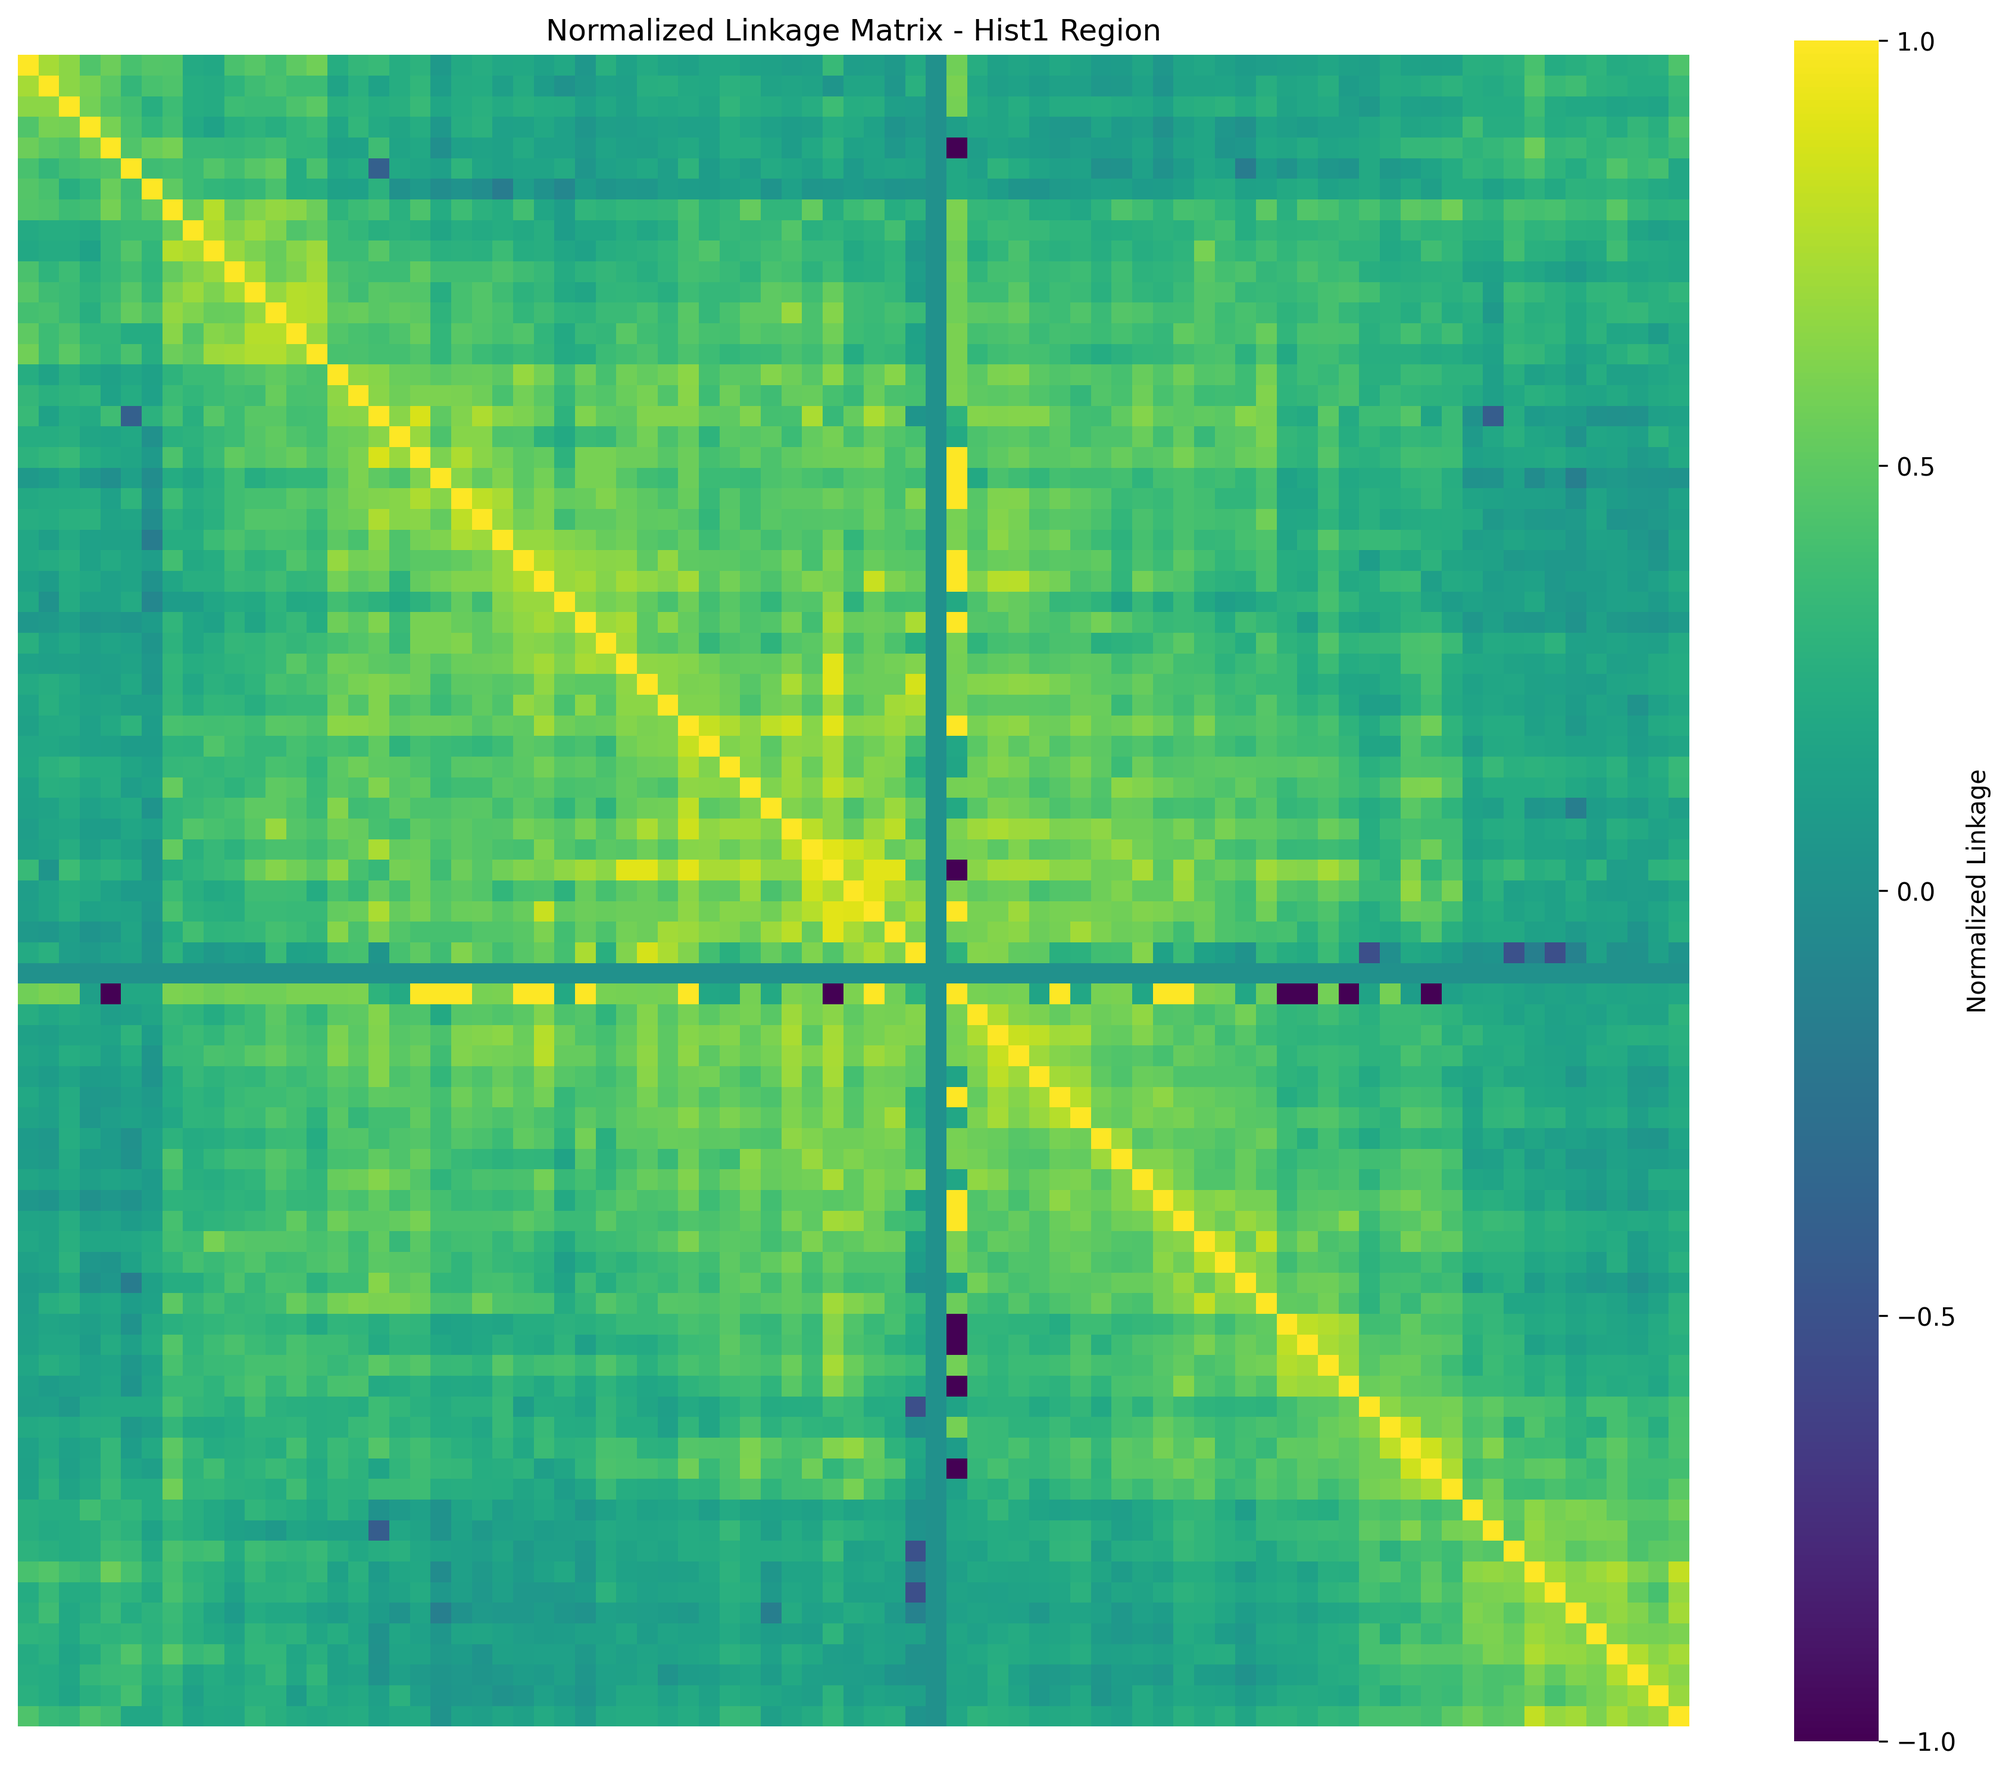
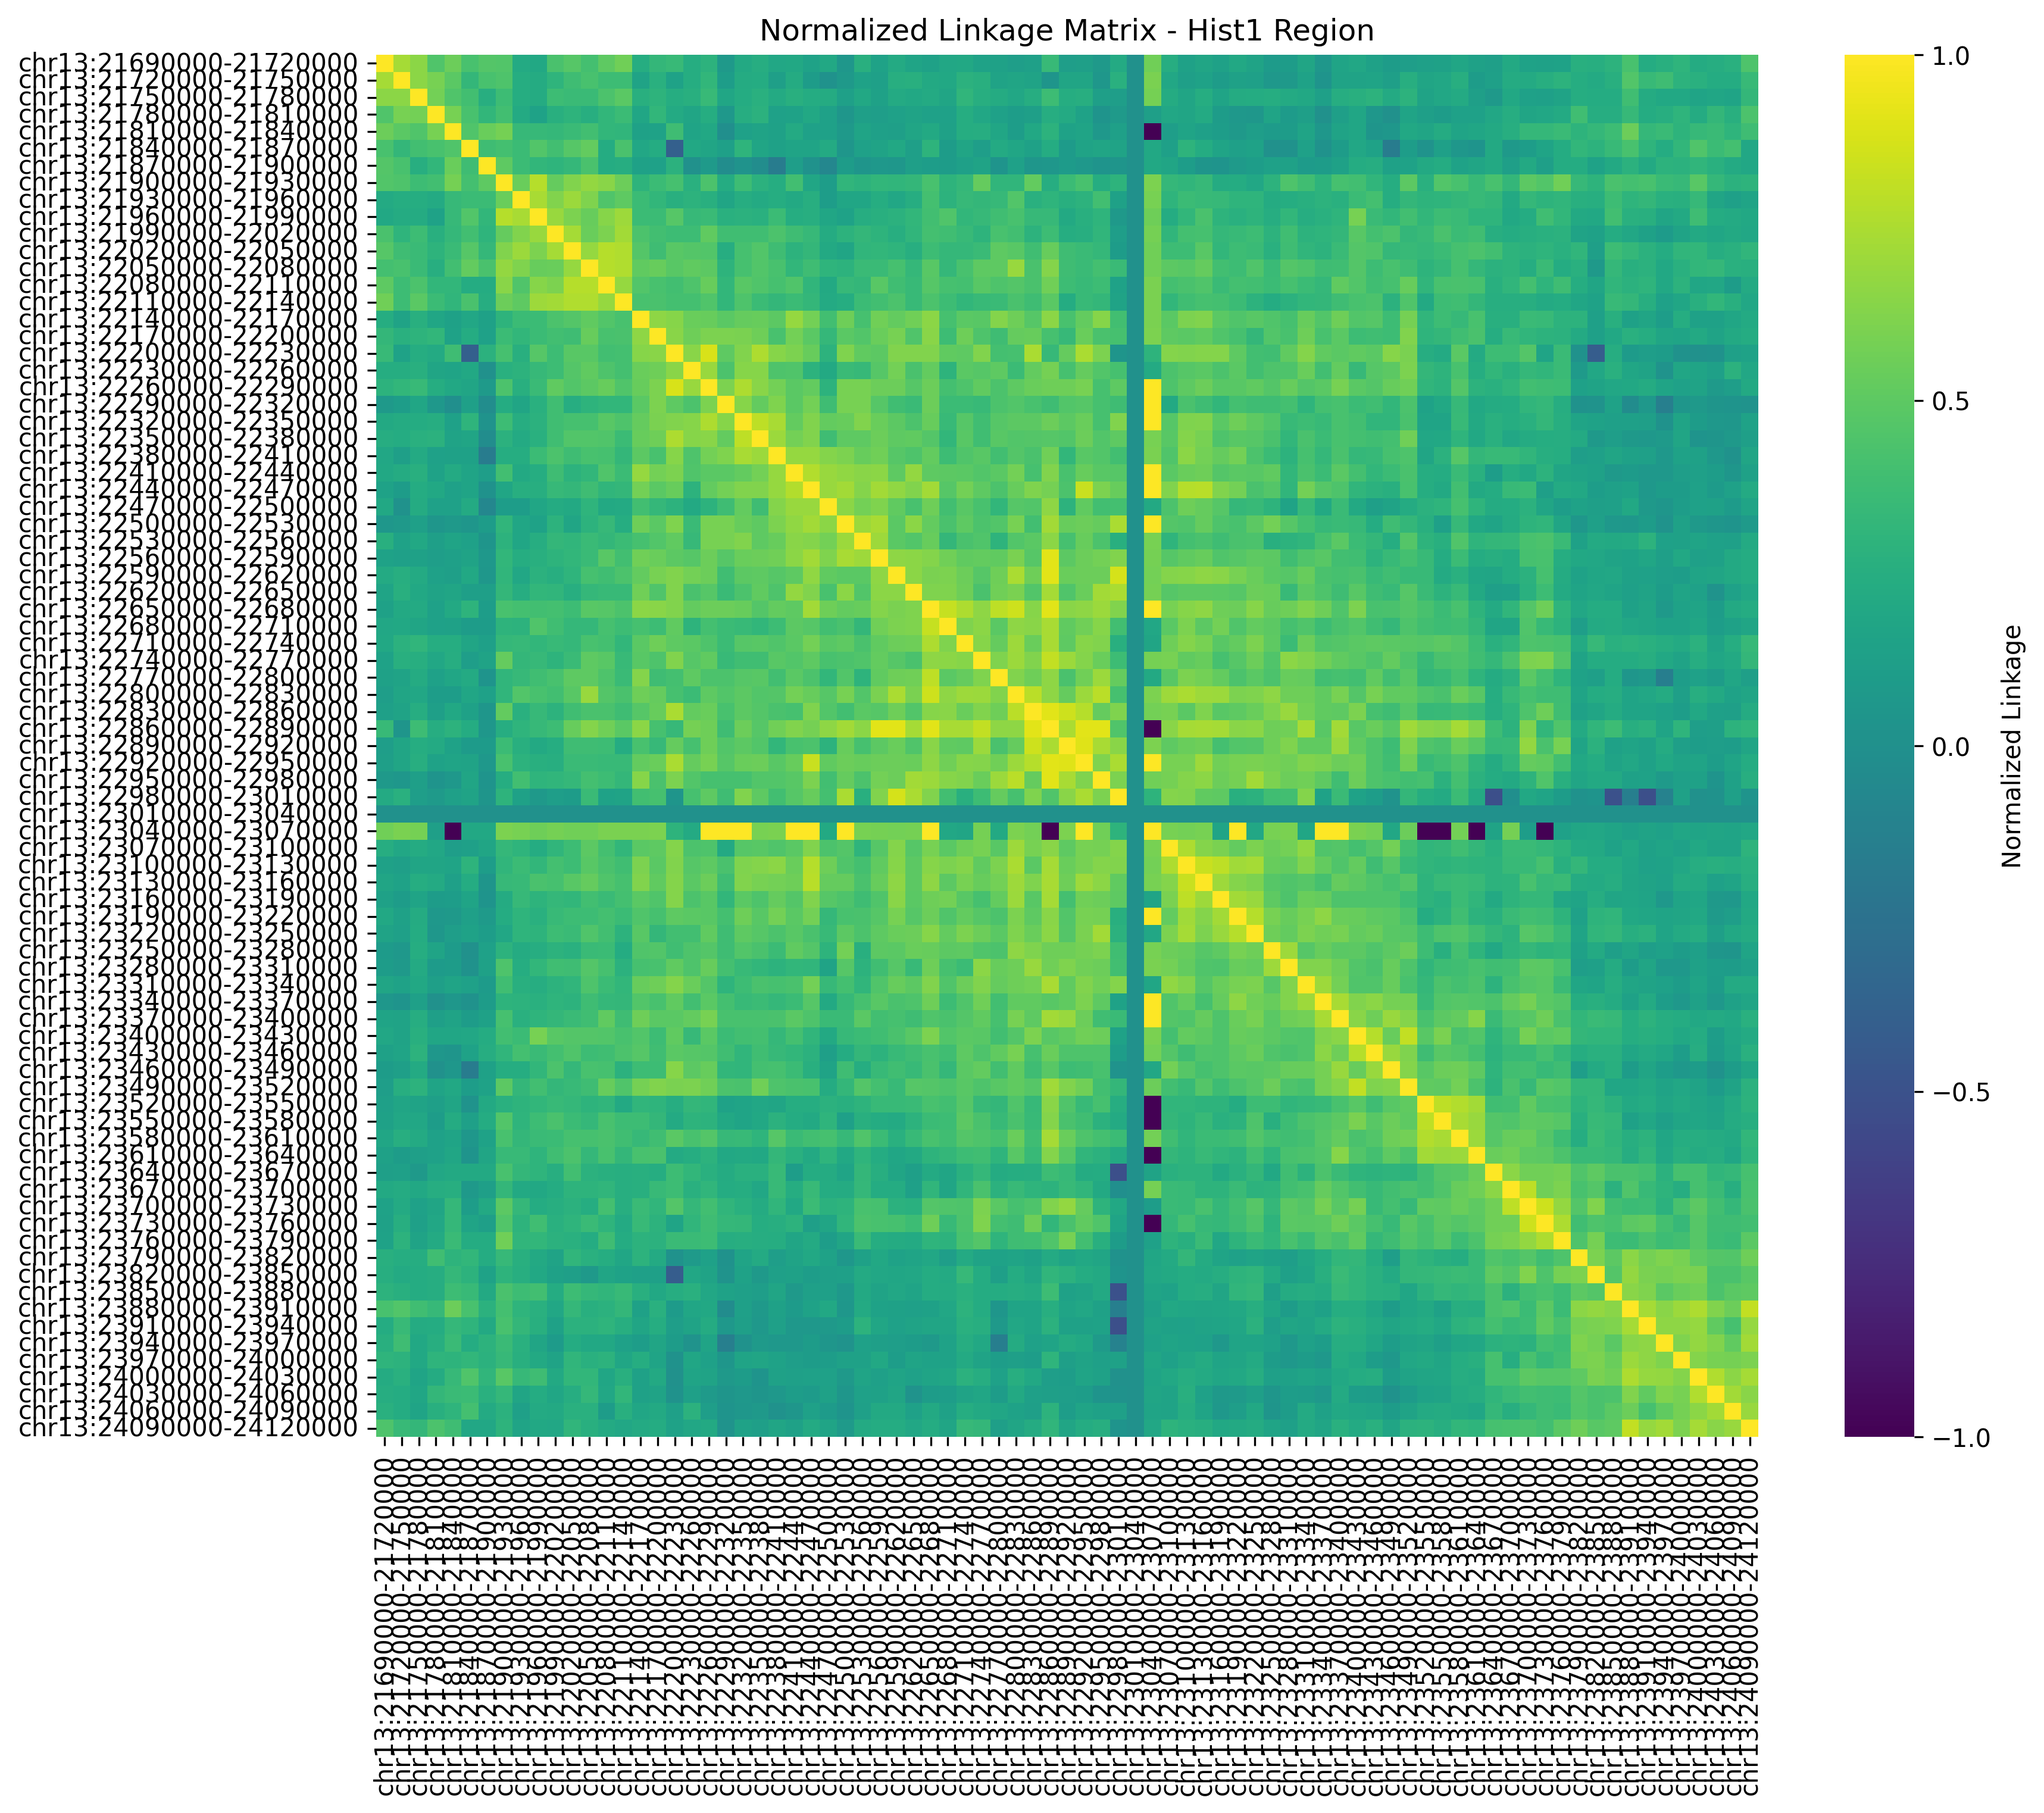
Updated co-seg

diff --git a/activities/functions.py b/activities/functions.py
@@ -516,16 +516,19 @@ def calc_detection_freq(window):
     freq = window.mean()
     return freq
 
+#calculates the co-segregation frequency for two windows (the fraction of NPs that have both windows)
 def calc_cosegregation(window_a, window_b):
     return ((window_a == 1) & (window_b == 1)).mean() #fraction of NPs that have both windows
 
-
+#calculates the difference between ovserved co-segregation and expected co-segregation
 def linkage(freq_a, freq_b, freq_ab):
-    return freq_ab - (freq_a * freq_b) #the observed co-segregation minus the expected co-segregation if they were independent
+    return freq_ab - (freq_a * freq_b) #the observed co-segregation minus the expected co-segregation 
 
+#calculates the normalized linkage for two windows
 def normalized_linkage(freq_a, freq_b, freq_ab):
-    D = linkage(freq_a, freq_b, freq_ab)
+    D = linkage(freq_a, freq_b, freq_ab) #the difference between observed and expected co-segregation
 
+    #dmax is the maximum possible value of D based on the freqs of the two windows
     if D == 0:
         return 0
     elif D > 0:
@@ -539,9 +542,15 @@ def normalized_linkage(freq_a, freq_b, freq_ab):
 
 def compute_normalized_linkage_matrix(df, np_cols):
     n = len(df)
-    window_labels = [f"{df.iloc[i]['chrom']}:{df.iloc[i]['start']}-{df.iloc[i]['stop']}" for i in range(n)] #makes labels for the windows based on the chrom, start, and stop columns in the df
+    
+    #creates the labels for the windows in the format "chr:start-stop"
+    window_labels = (
+        df["chrom"] + ":" +
+        df["start"].astype(str) + "-" +
+        df["stop"].astype(str)
+    ).tolist()
 
-
+    #initializes a dataframe of zeros of size num_windows x num_windows to store the normalized linkage values
     norm_linkage_matrix = pd.DataFrame(
         np.zeros((n, n)),
         index=window_labels,
@@ -549,13 +558,16 @@ def compute_normalized_linkage_matrix(df, np_cols):
     )
 
 
-    frequencies = []
+    frequencies = [] #all of the detection frequencies for each window
+
+    #calculates the freqquencies and populates the frequencies list
     for i in range(n):
         window = df.iloc[i][np_cols]
         frequencies.append(calc_detection_freq(window))
 
+    #loops through all pairs of windows to calculate the normalized linkage and populate the matrix
     for i in range(n):
-        for j in range(i, n):
+        for j in range(i, n): #goes through upper triangle and diagonal, filling in the lower triangle with the same values since it's symmetric
             window_a = df.iloc[i][np_cols]
             window_b = df.iloc[j][np_cols]
 

diff --git a/activities/main.py b/activities/main.py
@@ -207,8 +207,8 @@ save_heatmap(
     ticks=[-1, -0.5, 0, 0.5, 1],
     vmin=-1,
     vmax=1,
-    xticklabels=False,
-    yticklabels=False
+    xticklabels=True,
+    yticklabels=True
 )
 
 print(norm_linkage_matrix)
